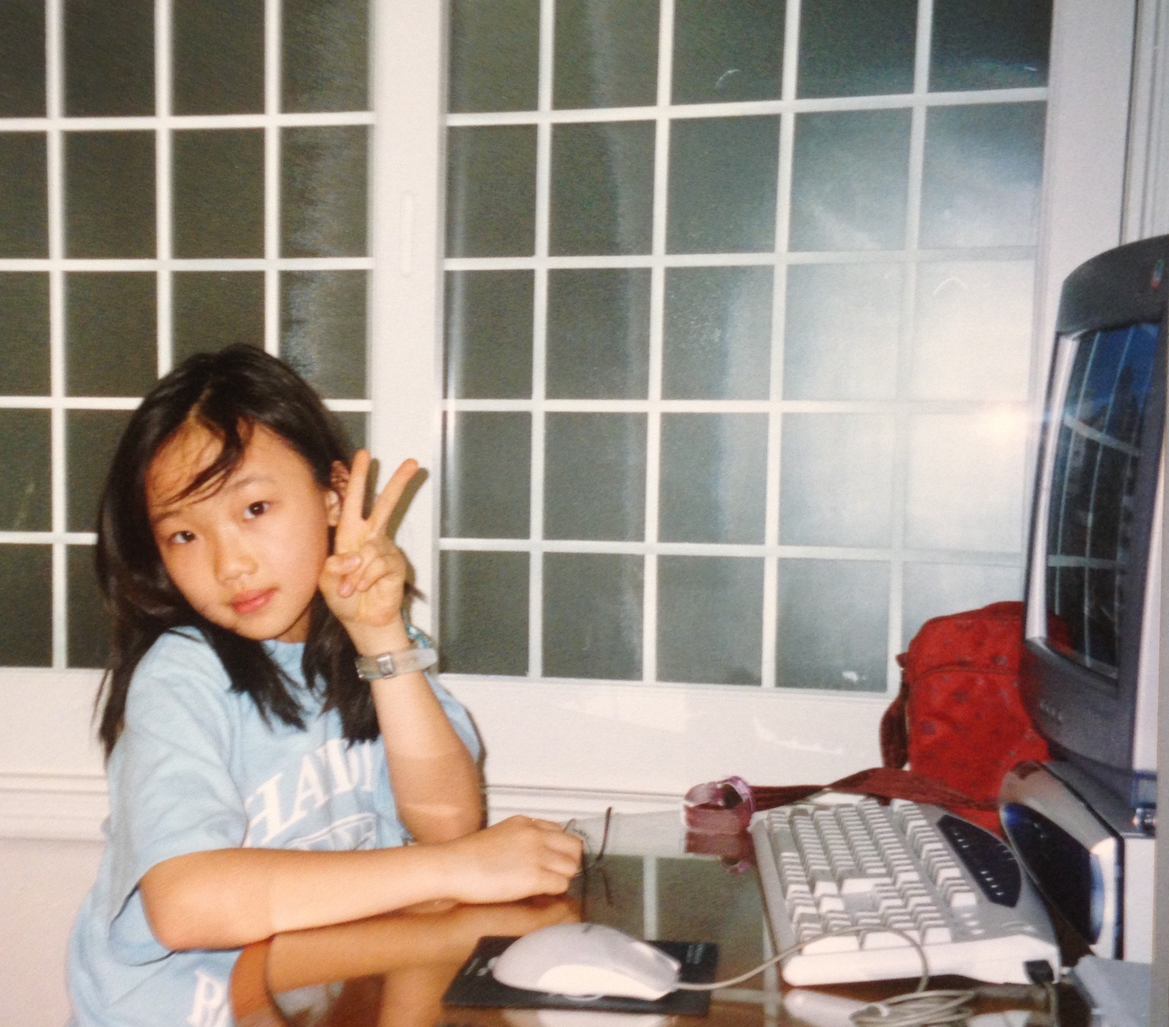
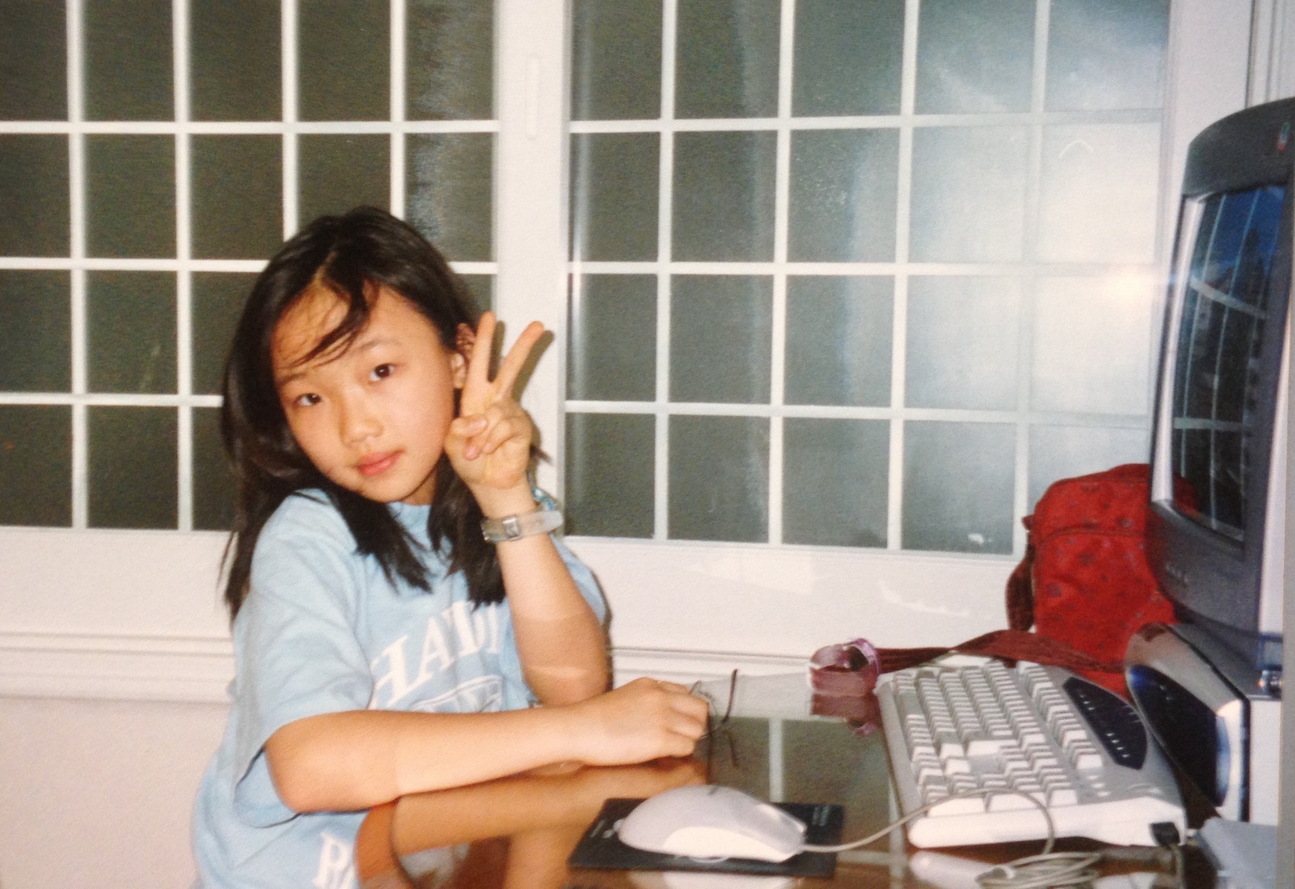
Add picture to mobile version

diff --git a/style.css b/style.css
@@ -4,7 +4,7 @@ html, body {
 }
 
 html {
-    font-size: 30px;
+    font-size: 16px;
     font-family: 'ITC Century Std', sans-serif;
     font-style: oblique;
     color: rgba(0, 0, 0, 0.6);
@@ -46,8 +46,8 @@ main {
 
 .intro {
     position: relative;
-    font-size: 1.8rem;
-    margin-bottom: 1em;
+    font-size: 1.6rem;
+    margin-bottom: 6vw;
     max-width: 14em;
 }
 
@@ -55,7 +55,7 @@ ul {
     position: relative;
     margin: 0;
     padding: 0;
-    padding-left: 10vw;
+    padding-left: 2em;
     list-style: none;
 }
 
@@ -74,8 +74,24 @@ li::before {
     background-color: black;
 }
 
+.intro-image {
+    width: 100%;
+    height: auto;
+    margin-bottom: 6vw;
+}
+
 p {
     margin: 0;
+}
+
+a {
+    color: inherit;
+    text-decoration: none;
+    border-bottom: solid 1px;
+}
+
+a:hover {
+    color: white;
 }
 
 h1 {
@@ -86,19 +102,27 @@ h1 {
     margin: 0;
 }
 
-@media all and (min-width: 800px) {
+@media all and (min-aspect-ratio: 1/1) {
     html {
         color: rgba(255, 255, 255, 0.7);
         background-color: black;
+    }
+
+    main {
+        padding-left: 50vw;
+        background-image: url('img-01-cropped.jpg');
     }
 
     .scrim {
         display: block;
     }
 
-    main {
-        padding-left: 48vw;
-        background-image: url('img-01-cropped.jpg');
+    .intro-image {
+        display: none;
+    }
+
+    .intro {
+        margin-bottom: 1em;
     }
 
     ul {
@@ -111,5 +135,17 @@ h1 {
 
     h1 {
         color: white;
+    }
+}
+
+@media all and (min-width: 600px) {
+    html {
+        font-size: 20px;
+    }
+}
+
+@media all and (min-width: 1600px) {
+    html {
+        font-size: 1.2vw;
     }
 }

diff --git a/index.html b/index.html
@@ -9,6 +9,7 @@
 <body>
 	<main>
 		<div class="scrim"></div>
+		<img class="intro-image" src="img-01-cropped.jpg" alt="Julie at a computer">
 		<div class="intro">
 			<h1>Julie Moon</h1> is a writer currently living in Brooklyn. She was born in South Korea and is pursuing an MFA&nbsp;at&nbsp;Columbia.
 		</div>
